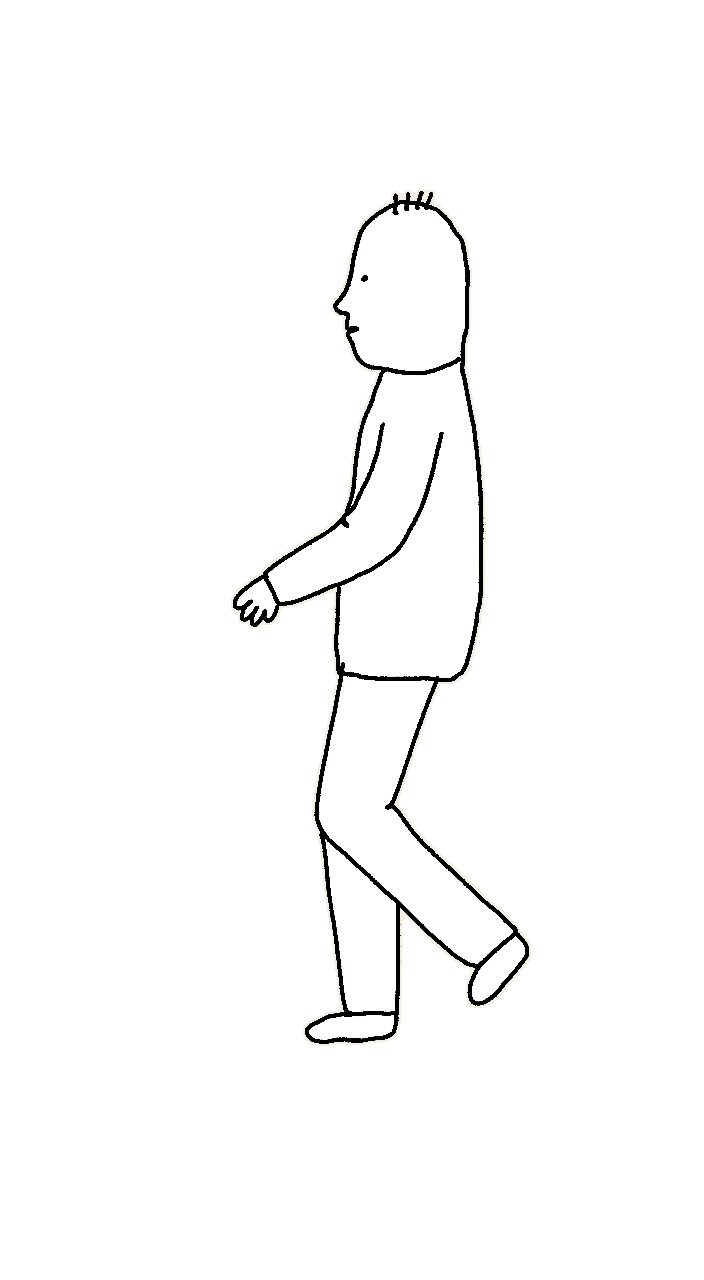
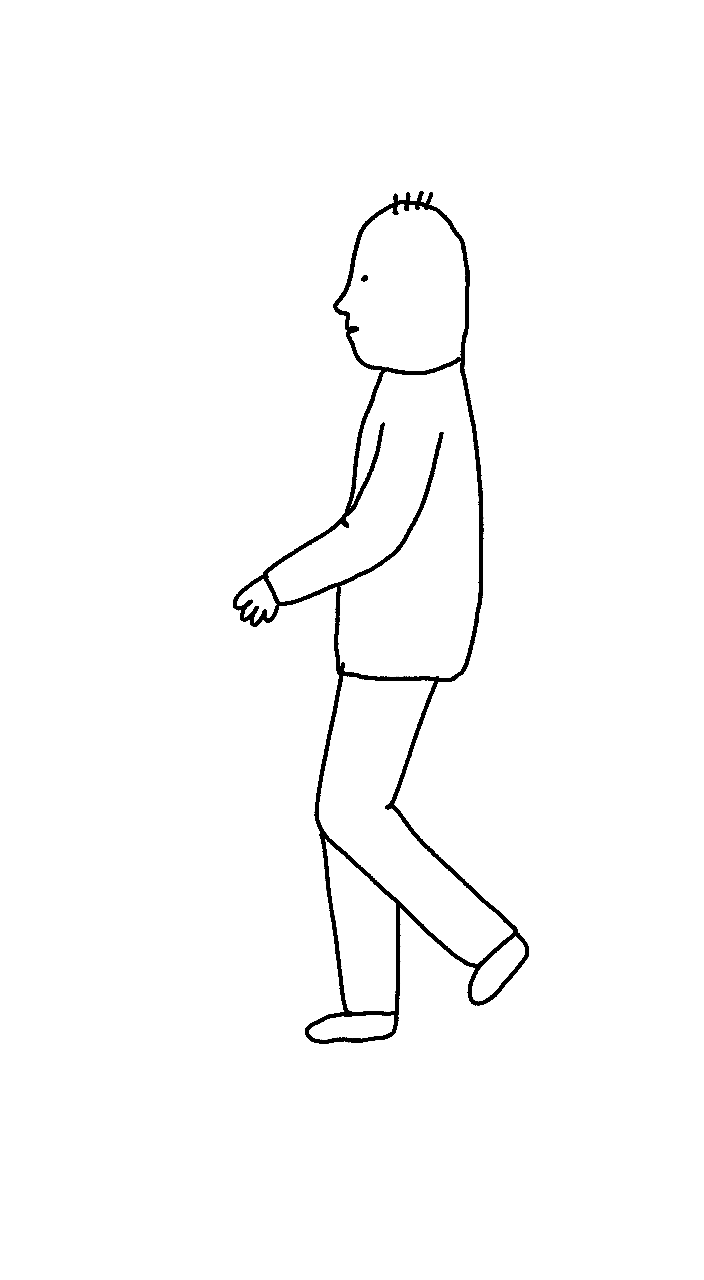
Keep the floor under him; white page; pen-drawn lines
The floor was placed once at the starting window size, so in a viewer
that opens small and then grows he had nothing to stand on. It now runs
along the bottom of the window at any size. The page and his fill are
white, the frames are back to the unfilled originals, and lines are
drawn as wobbling, tapered pen strokes to match his linework.

Claude-Session: https://claude.ai/code/session_01KMVx3gD33sNaq8p2KboisH

diff --git a/walk/sketch.js b/walk/sketch.js
@@ -9,8 +9,12 @@ let walker = null; // what prepareFrames returns
 let drawnFacing = -1; // which way the frames are drawn: -1 left, 1 right
 let framesFailed = false;
 
-let lines = []; // every line is a list of {x, y} points
+let lines = []; // every line you draw: a list of {x, y} points, plus a seed for its wobble
 let drawing = null;
+let FLOOR_GAP = 40; // the floor runs along the bottom of the window, this far up
+let INK = 17;
+let ink; // the lines, drawn once into their own layer and redrawn only when they change
+let inkDirty = true;
 
 let guy = {
   x: 120,
@@ -90,23 +94,15 @@ function setup() {
   createCanvas(windowWidth, windowHeight);
   loadBuiltInFrames();
   resetLines();
-  guy.y = height - 60;
+  guy.y = floorY();
   hookButtons();
 }
 
 function draw() {
-  background("#f4efe4");
+  background(255);
 
-  stroke("#222");
-  strokeWeight(4);
-  strokeJoin(ROUND);
-  strokeCap(ROUND);
-  noFill();
-  for (let l of lines) {
-    beginShape();
-    for (let p of l) vertex(p.x, p.y);
-    endShape();
-  }
+  if (inkDirty) drawInk();
+  image(ink, 0, 0, width, height);
 
   moveGuy();
   drawGuy();
@@ -155,9 +151,11 @@ function moveGuy() {
 
   if (dir == 0 && guy.onGround) guy.stride = 0;
 
-  // walked off the edge of the world: drop back in from the top
-  if (guy.y > height + GUY_HEIGHT || guy.x < -50 || guy.x > width + 50) {
-    guy.x = constrain(guy.x, 40, width - 40);
+  // the sides of the window are walls
+  guy.x = constrain(guy.x, 20, width - 20);
+
+  // fell out of the world: drop back in from the top
+  if (guy.y > height + GUY_HEIGHT) {
     guy.y = -GUY_HEIGHT;
     guy.vy = 0;
     guy.onGround = false;
@@ -173,7 +171,7 @@ function wallAt(x) {
 // highest line at x that is at or below fromY
 function groundBelow(x, fromY) {
   let best = null;
-  for (let l of lines) {
+  for (let l of [floorLine(), ...lines]) {
     for (let i = 1; i < l.length; i++) {
       let a = l[i - 1];
       let b = l[i];
@@ -231,26 +229,94 @@ function drawStandIn() {
 
 // ---- drawing lines ----
 
+function floorY() {
+  return height - FLOOR_GAP;
+}
+
+// the window can change size after the page opens, so the floor is worked out each time
+function floorLine() {
+  let l = [{ x: -10, y: floorY() }, { x: width + 10, y: floorY() }];
+  l.seed = 7;
+  return l;
+}
+
 function resetLines() {
-  lines = [[{ x: 0, y: height - 40 }, { x: width, y: height - 40 }]];
+  lines = [];
+  inkDirty = true;
 }
 
 function mousePressed(e) {
   if (e && e.target && e.target.tagName != "CANVAS") return;
   drawing = [{ x: mouseX, y: mouseY }];
+  drawing.seed = random(1000);
   lines.push(drawing);
 }
 
 function mouseDragged() {
   if (!drawing) return;
   let last = drawing[drawing.length - 1];
-  if (dist(last.x, last.y, mouseX, mouseY) > 4) drawing.push({ x: mouseX, y: mouseY });
+  if (dist(last.x, last.y, mouseX, mouseY) > 4) {
+    drawing.push({ x: mouseX, y: mouseY });
+    inkDirty = true;
+  }
   return false;
 }
 
 function mouseReleased() {
   if (drawing && drawing.length < 2) lines.pop();
   drawing = null;
+  inkDirty = true;
+}
+
+function drawInk() {
+  if (!ink || ink.width != width || ink.height != height) ink = createGraphics(width, height);
+  ink.clear();
+  ink.noStroke();
+  ink.fill(INK);
+  for (let l of [floorLine(), ...lines]) inkLine(ink, l);
+  inkDirty = false;
+}
+
+// A pen line like the ones he's drawn with: smoothed, wobbling a little,
+// thicker and thinner along its length, and tapering at the ends.
+function inkLine(g, pts, seed = pts.seed) {
+  pts = roundCorners(pts);
+  let spots = [];
+  let d = 0;
+  for (let i = 1; i < pts.length; i++) {
+    let a = pts[i - 1];
+    let b = pts[i];
+    let len = dist(a.x, a.y, b.x, b.y);
+    let nx = -(b.y - a.y) / (len || 1);
+    let ny = (b.x - a.x) / (len || 1);
+    for (let t = 0; t < len; t += 0.75) {
+      let wobble = (noise(seed, d * 0.01) - 0.5) * 3 + (noise(seed + 40, d * 0.08) - 0.5) * 1.2 + (noise(seed + 60, d * 0.5) - 0.5) * 0.4;
+      spots.push({ x: lerp(a.x, b.x, t / len) + nx * wobble, y: lerp(a.y, b.y, t / len) + ny * wobble, d });
+      d += 0.75;
+    }
+  }
+  for (let s of spots) {
+    let taper = min(1, s.d / 10, (d - s.d) / 10);
+    let w = (1.2 + noise(seed + 80, s.d * 0.02) * 1.3) * (0.5 + 0.5 * taper);
+    g.circle(s.x, s.y, w);
+  }
+}
+
+// round off the corners of a line drawn with the mouse
+function roundCorners(pts) {
+  for (let pass = 0; pass < 2; pass++) {
+    if (pts.length < 3) return pts;
+    let out = [pts[0]];
+    for (let i = 0; i < pts.length - 1; i++) {
+      let a = pts[i];
+      let b = pts[i + 1];
+      out.push({ x: a.x * 0.75 + b.x * 0.25, y: a.y * 0.75 + b.y * 0.25 });
+      out.push({ x: a.x * 0.25 + b.x * 0.75, y: a.y * 0.25 + b.y * 0.75 });
+    }
+    out.push(pts[pts.length - 1]);
+    pts = out;
+  }
+  return pts;
 }
 
 function keyPressed() {
@@ -261,11 +327,15 @@ function keyPressed() {
 }
 
 function undo() {
-  if (lines.length > 1) lines.pop();
+  lines.pop();
+  inkDirty = true;
 }
 
 function windowResized() {
+  let wasOnFloor = guy.onGround && abs(guy.y - floorY()) < 1;
   resizeCanvas(windowWidth, windowHeight);
+  if (wasOnFloor) guy.y = floorY();
+  inkDirty = true;
 }
 
 function hookButtons() {

diff --git a/walk/style.css b/walk/style.css
@@ -2,7 +2,7 @@ html, body {
   margin: 0;
   height: 100%;
   overflow: hidden;
-  background: #f4efe4;
+  background: #fff;
   font-family: -apple-system, Helvetica, Arial, sans-serif;
 }
 
@@ -16,7 +16,7 @@ canvas {
   top: 64px;
   left: 16px;
   right: 16px;
-  color: #6b6357;
+  color: #777;
   font-size: 14px;
   pointer-events: none;
 }

diff --git a/walk/frames.js b/walk/frames.js
@@ -1,7 +1,7 @@
 // Frames: load a walk sequence from a folder, clean it up, and work out
 // how far he travels per frame. Used by sketch.js.
 
-let PAPER = [244, 239, 228];
+let PAPER = [255, 255, 255];
 
 // Turn plain <img> elements into p5 images plus everything drawGuy needs.
 function prepareFrames(els) {
